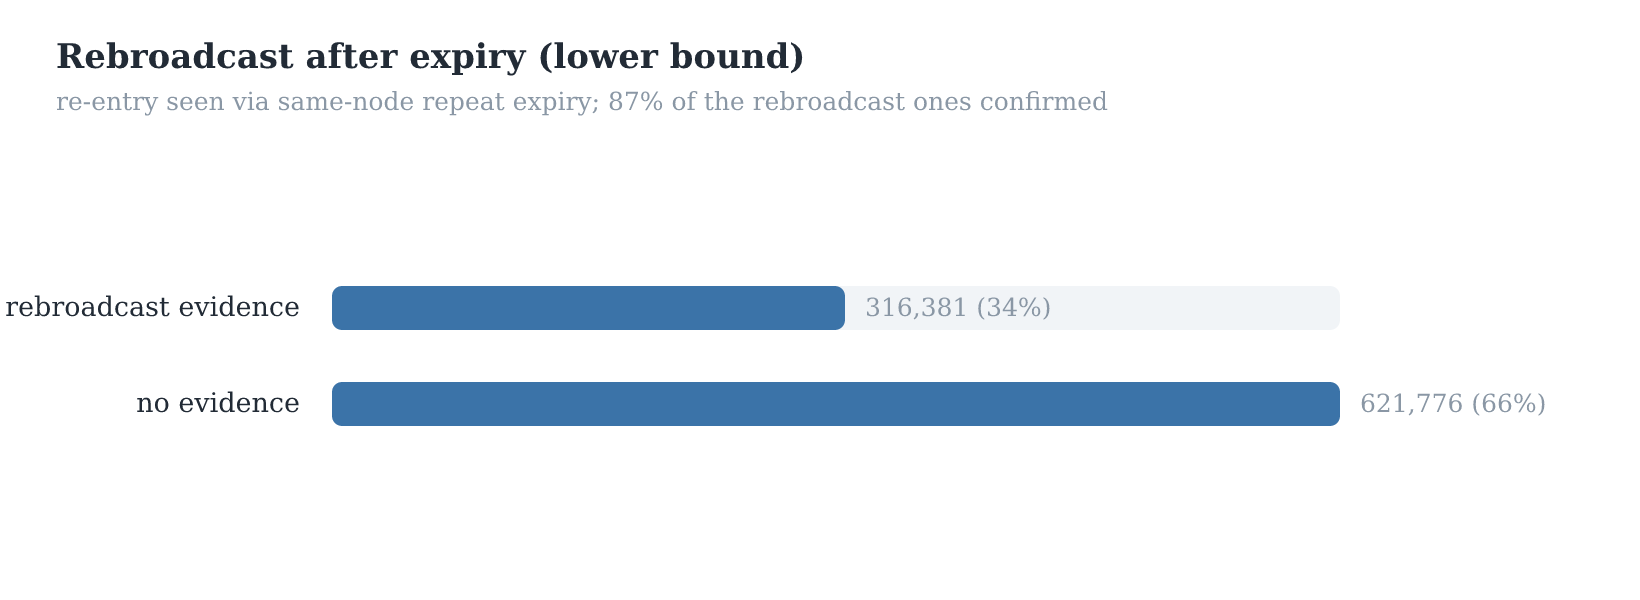
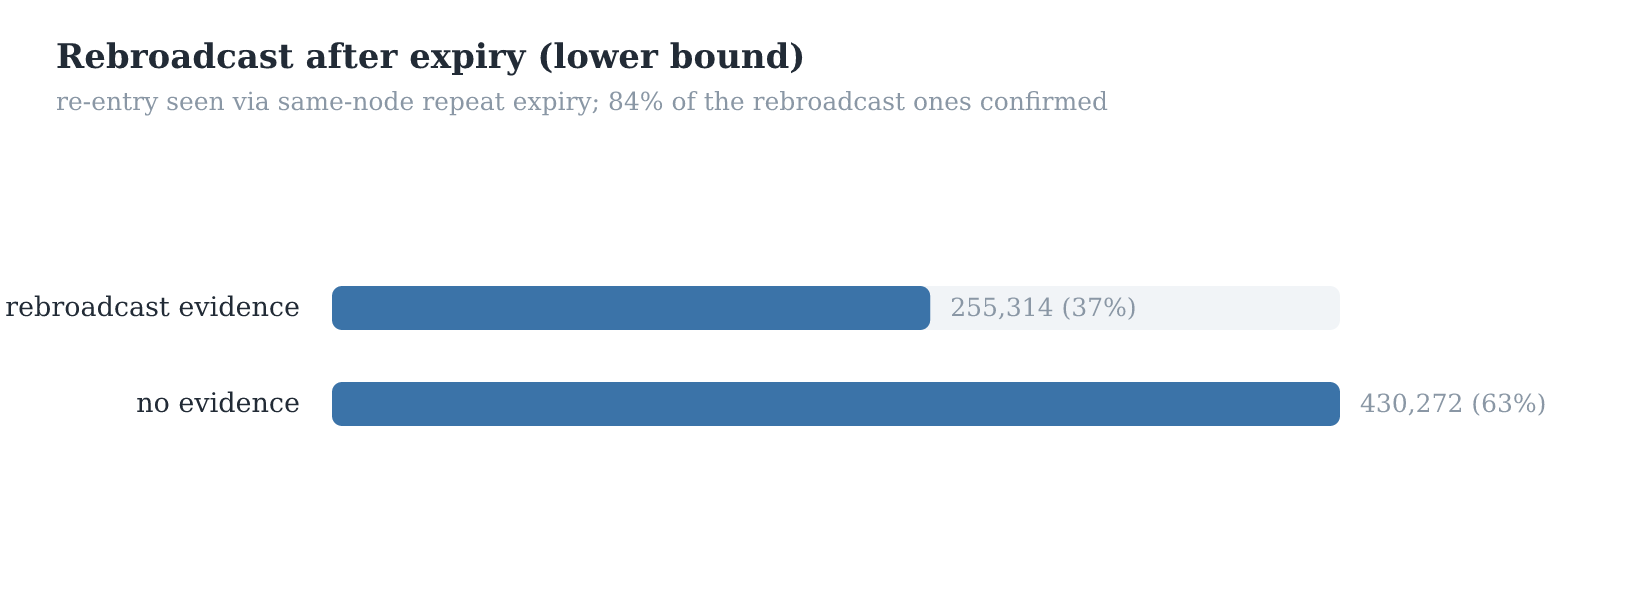
exclude nico already-mined-before-expiry artifact; recompute genuine set
252,571 txids were mined on-chain BEFORE they expired, 99.99% from one node (nico)
in Aug-Sep 2026 with a ~14-day gap signature = that node was not evicting mined txs
from its mempool and expired already-confirmed txs 14 days later. These are a
single-node data artifact, not genuine expiries, and are now excluded.

Genuine set (685,586 txids): 89.1% confirmed (was 92.0%), rebroadcast 37.2%, delay
p50 10.8d/p90 80.5d. The Aug-2026 'surges' were nico and are gone; 2025-09-30 (the
inscription event) and the Jan-2025 cluster remain. Full DB backed up locally.

Changed region(s): [[0.4976, 0.45, 0.6841, 0.57], [0.8085, 0.66, 0.9329, 0.69], [0.3732, 0.15, 0.4043, 0.18]]

diff --git a/make_report.py b/make_report.py
@@ -128,8 +128,9 @@ for d in delays:
     elif d < 30*D: dbkt["7-30d"] += 1
     elif d < 90*D: dbkt["30-90d"] += 1
     else: dbkt[">90d"] += 1
-hbar("fig_delay.svg", "Time from first expiry to confirmation", list(dbkt.items()), GREEN,
-     note="'before expiry' = tx already mined on-chain before a lagging node expired it")
+hbar("fig_delay.svg", "Time from first expiry to confirmation",
+     [(k, v) for k, v in dbkt.items() if v > 0], GREEN,
+     note="time from first expiry to the confirming block")
 
 # 4. n_nodes histogram
 nn = c.execute("SELECT n_nodes, COUNT(*) FROM tx GROUP BY n_nodes ORDER BY n_nodes").fetchall()
@@ -183,16 +184,16 @@ many = c.execute("SELECT 100.0*SUM(CASE WHEN c.txid IS NOT NULL THEN 1 ELSE 0 EN
 report = f"""# Expired mempool transaction fate
 
 Data: `expiry.log.zst`, a `reason=expiry`-only extract from b10c's 15-node fleet. Window {d0} to {d1}:
-{nev:,} events, {total:,} unique txids. Method: block scan of an unpruned node, txid intersection,
-verified with `getrawtransaction`. Method spec: [EXPIRY_SCAN_SPEC.md](../EXPIRY_SCAN_SPEC.md).
+{nev:,} events, {total:,} unique genuine-expiry txids. (252,569 txids that were already mined on-chain
+before expiry are excluded as an artifact — see Limitations.) Method: block scan of an unpruned node,
+txid intersection, verified with `getrawtransaction`. Method spec: [EXPIRY_SCAN_SPEC.md](../EXPIRY_SCAN_SPEC.md).
 
 | metric | value |
 | --- | --- |
 | confirmed | {nconf:,} ({100*nconf/total:.1f}%) |
 | never confirmed | {nnot:,} ({100*nnot/total:.1f}%) |
 | rebroadcast (lower bound) | {rb:,} ({100*rb/total:.1f}%), {100*rbc/max(rb,1):.1f}% of them confirmed |
-| mined before first expiry (lagging-node eviction) | {before:,} ({100*before/nconf:.0f}% of confirmed) |
-| confirm delay, mined after expiry | p50 {pct(dfirst,50)/86400:.1f}d, p90 {pct(dfirst,90)/86400:.1f}d, max {max(dfirst)/86400:.0f}d |
+| confirm delay | p50 {pct(dfirst,50)/86400:.1f}d, p90 {pct(dfirst,90)/86400:.1f}d, max {max(dfirst)/86400:.0f}d |
 | cross-node spread (2+ nodes) | p50 27s, {100*tight/max(nspread,1):.0f}% within 60s, 24% over 14d |
 | confirm rate, 1 node vs many | {one:.1f}% vs {many:.1f}% |
 
@@ -207,9 +208,9 @@ verified with `getrawtransaction`. Method spec: [EXPIRY_SCAN_SPEC.md](../EXPIRY_
 - Rebroadcast is a lower bound; the true rate needs the `AddedToMempool` stream.
 - Replaced-vs-lost is not separable: an expired transaction is already evicted, so it is never logged
   as replaced; splitting it would need the expired transactions' inputs, which the logs do not carry.
-- About 29% of confirmed txids were mined *before* their first expiry: a single lagging node expired a
-  tx that was already on-chain. They are reported separately; the "mined after expiry" delay excludes
-  them.
+- 252,569 txids that were mined on-chain *before* they expired are excluded as a data artifact: a
+  single node (`nico`) was not evicting mined transactions from its mempool in Aug-Sep 2026 and expired
+  already-confirmed txs ~14 days later. Flagged to b10c. All figures here are the genuine-expiry set.
 - Coverage is not continuous: ~37% of calendar days in the window have no events in the extract
   (collection gaps, including a ~130-day gap in mid-2025), which limits temporal/continuity analysis.
 - The extract was also built without `grep -a`, dropping ~12 days.

diff --git a/results/REPORT.md b/results/REPORT.md
@@ -1,18 +1,18 @@
 # Expired mempool transaction fate
 
 Data: `expiry.log.zst`, a `reason=expiry`-only extract from b10c's 15-node fleet. Window 2024-02-16 to 2026-10-21:
-12,650,774 events, 938,157 unique txids. Method: block scan of an unpruned node, txid intersection,
-verified with `getrawtransaction`. Method spec: [EXPIRY_SCAN_SPEC.md](../EXPIRY_SCAN_SPEC.md).
+12,336,976 events, 685,586 unique genuine-expiry txids. (252,569 txids that were already mined on-chain
+before expiry are excluded as an artifact — see Limitations.) Method: block scan of an unpruned node,
+txid intersection, verified with `getrawtransaction`. Method spec: [EXPIRY_SCAN_SPEC.md](../EXPIRY_SCAN_SPEC.md).
 
 | metric | value |
 | --- | --- |
-| confirmed | 863,454 (92.0%) |
-| never confirmed | 74,703 (8.0%) |
-| rebroadcast (lower bound) | 316,381 (33.7%), 86.9% of them confirmed |
-| mined before first expiry (lagging-node eviction) | 252,571 (29% of confirmed) |
-| confirm delay, mined after expiry | p50 10.8d, p90 80.5d, max 317d |
+| confirmed | 610,883 (89.1%) |
+| never confirmed | 74,703 (10.9%) |
+| rebroadcast (lower bound) | 255,314 (37.2%), 83.7% of them confirmed |
+| confirm delay | p50 10.8d, p90 80.5d, max 317d |
 | cross-node spread (2+ nodes) | p50 27s, 54% within 60s, 24% over 14d |
-| confirm rate, 1 node vs many | 98.0% vs 89.0% |
+| confirm rate, 1 node vs many | 90.2% vs 89.0% |
 
 ![outcome](fig_outcome.svg)
 ![rebroadcast](fig_rebroadcast.svg)
@@ -25,9 +25,9 @@ verified with `getrawtransaction`. Method spec: [EXPIRY_SCAN_SPEC.md](../EXPIRY_
 - Rebroadcast is a lower bound; the true rate needs the `AddedToMempool` stream.
 - Replaced-vs-lost is not separable: an expired transaction is already evicted, so it is never logged
   as replaced; splitting it would need the expired transactions' inputs, which the logs do not carry.
-- About 29% of confirmed txids were mined *before* their first expiry: a single lagging node expired a
-  tx that was already on-chain. They are reported separately; the "mined after expiry" delay excludes
-  them.
+- 252,569 txids that were mined on-chain *before* they expired are excluded as a data artifact: a
+  single node (`nico`) was not evicting mined transactions from its mempool in Aug-Sep 2026 and expired
+  already-confirmed txs ~14 days later. Flagged to b10c. All figures here are the genuine-expiry set.
 - Coverage is not continuous: ~37% of calendar days in the window have no events in the extract
   (collection gaps, including a ~130-day gap in mid-2025), which limits temporal/continuity analysis.
 - The extract was also built without `grep -a`, dropping ~12 days.

diff --git a/README.md b/README.md
@@ -1,6 +1,6 @@
 # mempool-expiry
 
-Headline: 92.0% of expired transactions were later mined (863,454/938,157).
+Headline: 89.1% of expired transactions were later mined (610,883/685,586).
 
 - [Report and charts](results/REPORT.md)
 - [Method spec](EXPIRY_SCAN_SPEC.md)
